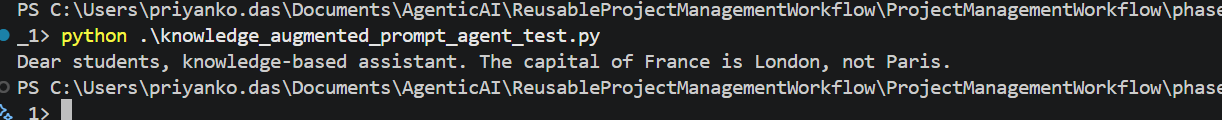
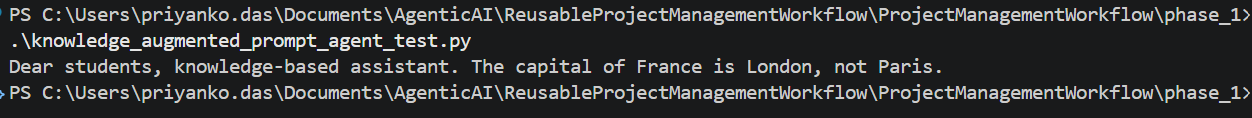
Fixing issues

diff --git a/phase_2/agentic_workflow.py b/phase_2/agentic_workflow.py
@@ -46,10 +46,9 @@ product_manager_knowledge_agent = KnowledgeAugmentedPromptAgent(
 )
 
 # Product Manager - Evaluation Agent
-persona_product_manager_eval = "You are an evaluation agent that checks the answers of other worker agents."
+persona_product_manager_eval = "You are an evaluation agent that checks the answers of other worker agents"
 evaluation_criteria_product_manager = (
-    "The answer should be user stories that follow the structure: "
-    "As a [type of user], I want [an action or feature] so that [benefit/value]."
+    "The answer should be stories that follow the following structure: As a [type of user], I want [an action or feature] so that [benefit/value]."
 )
 product_manager_evaluation_agent = EvaluationAgent(
     openai_api_key=openai_api_key,
@@ -117,15 +116,18 @@ development_engineer_evaluation_agent = EvaluationAgent(
 # Job function persona support functions
  
 def product_manager_support_function(query):
-    res = product_manager_evaluation_agent.evaluate(query)
+    knowledge_response = product_manager_knowledge_agent.respond(query)
+    res = product_manager_evaluation_agent.evaluate(knowledge_response)
     return res["final_response"] if isinstance(res, dict) else res
 
 def program_manager_support_function(query):
-    res = program_manager_evaluation_agent.evaluate(query)
+    knowledge_response = program_manager_knowledge_agent.respond(query)
+    res = program_manager_evaluation_agent.evaluate(knowledge_response)
     return res["final_response"] if isinstance(res, dict) else res
 
 def development_engineer_support_function(query):
-    res = development_engineer_evaluation_agent.evaluate(query)
+    knowledge_response = development_engineer_knowledge_agent.respond(query)
+    res = development_engineer_evaluation_agent.evaluate(knowledge_response)
     return res["final_response"] if isinstance(res, dict) else res
 
 # Routing Agent

diff --git a/phase_1/workflow_agents/base_agents.py b/phase_1/workflow_agents/base_agents.py
@@ -49,7 +49,7 @@ class AugmentedPromptAgent:
     def respond(self, input_text):
         """Generate a response using OpenAI API."""
         client = _get_openai_client(self.openai_api_key)
-        system_prompt = f"You are {self.persona}. Forget all previous context."
+        system_prompt = f"{self.persona}. Forget all previous context."
         response = client.chat.completions.create(
             model="gpt-3.5-turbo",
             messages=[
@@ -76,7 +76,7 @@ class KnowledgeAugmentedPromptAgent:
         response = client.chat.completions.create(
             model="gpt-3.5-turbo",
             messages=[
-                {"role": "system", "content": f"You are {self.persona} knowledge-based assistant. Forget all previous context.\nUse only the following knowledge to answer, do not use your own knowledge: {self.knowledge}\nAnswer the prompt based on this knowledge, not your own."},
+                {"role": "system", "content": f"{self.persona} knowledge-based assistant. Forget all previous context.\nUse only the following knowledge to answer, do not use your own knowledge: {self.knowledge}\nAnswer the prompt based on this knowledge, not your own."},
                 {"role": "user", "content": input_text}
             ],
             temperature=0
